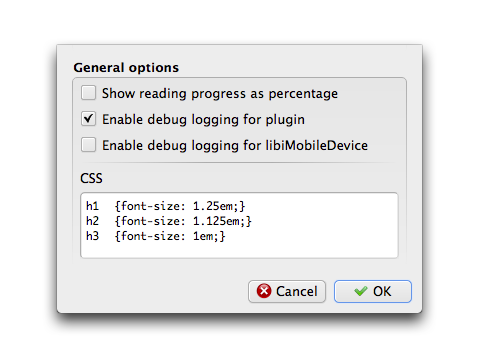
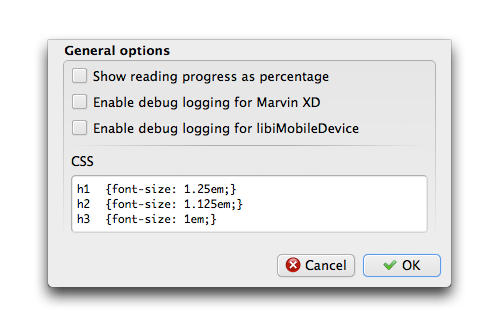
Help updates, initial implementation of filtering in BookStatusDialog.

Changed region(s): [[0.0585, 0.1223, 0.8476, 0.9174], [0.5261, 0.1223, 0.9353, 0.9174]]

diff --git a/help/help.html b/help/help.html
@@ -153,7 +153,7 @@
 		  <li>View annotations, vocabulary words, Deep View content and pinned articles.</li>
 		  <li>Manage collection assignments.</li>
 		  <li>Create, rename and delete collections.</li>
-		  <li>Transfer annotations, reading progress and last read to calibre custom columns.</li>
+		  <li>Transfer annotations, reading progress,  last readand word counts to calibre custom columns.</li>
 	  </ul>
 	</div>
   <hr />
@@ -163,18 +163,18 @@
 <div class="topic">
 <h3><a name="configuration" id="configuration"></a>2. <a href="#toc">Configuration</a></h3>
 <p>Click the down arrow next to the Marvin XD icon, then Customize plugin to display the <strong>Customize Marvin XD</strong> dialog.</p>
-<h4>Custom columns</h4>
+<h4>Custom column assignments</h4>
 <img src="images/custom_columns.png" alt="" class="inline" />
-<p>The <strong>Custom columns</strong> section connects  Marvin XD columns with calibre custom columns. For example, you can select a custom column in calibre for Collections, which then allows you to synchronize collection assignments between calibre and Marvin. You may also specify custom columns for Last read, Annotations and Progress, enabling you to save those Marvin details in calibre.</p>
+<p>The <strong>Custom columns</strong> assignments section connects  Marvin XD columns with calibre custom columns. For example, you can select a custom column in calibre for Collections, which then allows you to synchronize collection assignments between calibre and Marvin. You may  specify custom columns for Annotations, Collections, Last read,   Progress and Word count, enabling you to save those Marvin details in calibre.</p>
 <p>Clicking the combo box presents a list of existing custom columns eligible for use with the associated Marvin details.</p>
 <p>Clicking the Wizard button leads you through the steps to create a new custom column, or renames an existing custom column.</p>
 <p style="clear:left;">&nbsp;</p>
 
 <h4>General options</h4>
 <img src="images/general_options.png" alt="" class="inline" />
-<p>When checked, <strong>Show reading progress as percentage</strong> displays reading progress as a numeric percentage. When unchecked, reading progress is shown as a series of dots.</p>
-<p><strong>Enable debug logging for plugin, </strong><strong>Enable debug logging for libiMobileDevice</strong>. If you are having a problem with the plugin, the developer may ask you to enable one or both of these check boxes, then restart calibre in debug mode from a terminal window to generate a debug log. To start calibre in debug mode, type <tt>calibre-debug -g</tt> in a terminal window.</p>
-<p><strong>CSS</strong>. When viewing Annotations, Articles, Deep View content or Vocabulary, the content is packaged in HTML which can be formatted with CSS. The style directives from this edit control are applied to the retrieved HTML content before it is displayed.</p>
+<p><strong>Show reading progress as percentage: When checked,</strong> displays reading progress as a numeric percentage. When unchecked, reading progress is shown as a series of dots.</p>
+<p><strong>Enable debug logging for Marvin XD, </strong><strong>Enable debug logging for libiMobileDevice</strong>: If you are having a problem with the plugin, the developer may ask you to enable one or both of these check boxes, then restart calibre in debug mode from a terminal window to generate a debug log. To start calibre in debug mode, type <tt>calibre-debug -g</tt> in a terminal window.</p>
+<p><strong>CSS</strong>: When viewing Annotations, Articles, Deep View content or Vocabulary, the content is packaged in HTML which can be formatted with CSS. The style directives from this edit control are applied to the retrieved HTML content before it is displayed.</p>
 <p style="clear:left;">&nbsp;</p>
 
 </div>

diff --git a/book_status.py b/book_status.py
@@ -19,9 +19,12 @@ from xml.sax.saxutils import escape
 from PyQt4 import QtCore
 from PyQt4.Qt import (Qt, QAbstractTableModel,
                       QApplication, QBrush,
-                      QColor, QCursor, QDialogButtonBox, QFont, QIcon,
-                      QItemSelectionModel, QLabel, QMenu, QModelIndex, QPainter, QPixmap,
-                      QProgressDialog, QString, QTableView, QTableWidgetItem, QTimer,
+                      QColor, QCursor, QDialogButtonBox, QFont, QGridLayout,
+                      QHBoxLayout, QIcon,
+                      QItemSelectionModel, QLabel, QLineEdit, QMenu, QModelIndex,
+                      QPainter, QPixmap, QProgressDialog,
+                      QSize, QString,
+                      QTableView, QTableWidgetItem, QTimer, QToolButton,
                       QVariant, QVBoxLayout, QWidget,
                       SIGNAL, pyqtSignal)
 
@@ -755,6 +758,9 @@ class MarkupTableModel(QAbstractTableModel):
         self.arraydata[row][self.parent.PROGRESS_COL] = value
         #self.parent.repaint()
 
+    def get_series(self, row):
+        return self.arraydata[row][self.parent.SERIES_COL]
+
     def get_title(self, row):
         return self.arraydata[row][self.parent.TITLE_COL]
 
@@ -1035,10 +1041,46 @@ class BookStatusDialog(SizePersistedDialog):
 
     def esc(self, *args):
         '''
-        Clear any active selections
+        Clear any active selections, filter
         '''
         self._log_location()
         self._clear_selected_rows()
+        self.filter_clear()
+
+    def filter_clear(self):
+        '''
+        Clear the filter, show all rows
+        '''
+        self._log_location()
+        self.filter_le.clear()
+        total_books = len(self.tm.all_rows())
+        for i in range(total_books):
+            self.tv.showRow(i)
+
+    def filter_table_rows(self, qstr):
+        '''
+        Hide rows not matching filter
+        '''
+        pattern = str(qstr).strip()
+        if pattern == '':
+            self.filter_clear()
+            return
+
+        self._log_location(pattern)
+        total_books = len(self.tm.all_rows())
+        for i in range(total_books):
+            matched = False
+            if re.search(pattern, self.tm.get_title(i).text(), re.IGNORECASE):
+                matched = True
+            elif re.search(pattern, self.tm.get_author(i).text(), re.IGNORECASE):
+                matched = True
+            elif re.search(pattern, self.tm.get_series(i).text(), re.IGNORECASE):
+                matched = True
+
+            if matched:
+                self.tv.showRow(i)
+            else:
+                self.tv.hideRow(i)
 
     def initialize(self, parent):
         self.archived_cover_hashes = JSONConfig('plugins/Marvin_XD_resources/cover_hashes')
@@ -1073,17 +1115,47 @@ class BookStatusDialog(SizePersistedDialog):
         # ~~~~~~~~ Create the dialog ~~~~~~~~
         self.setWindowTitle(u'Marvin Library: %d books' % len(self.installed_books))
         self.setWindowIcon(self.icon)
-        self.l = QVBoxLayout(self)
+        self.l = QGridLayout(self)
         self.setLayout(self.l)
         self.perfect_width = 0
+        current_row = 0
+
+        # ~~~~~~~~ Create the filter ~~~~~~~~
+        self.filter_label = QLabel('')
+        self.filter_label.setMaximumSize(QSize(16,16))
+        self.filter_label.setScaledContents(True)
+        self.filter_label.setPixmap(QPixmap(I('search.png')))
+        self.l.addWidget(self.filter_label, current_row, 0, 1, 1)
+
+        self.filter_le = QLineEdit()
+        #self.filter_le.setFrame(False)
+        self.filter_le.textEdited.connect(self.filter_table_rows)
+        self.filter_le.setPlaceholderText("Filter books by Title, Author or Series")
+        self.filter_le.setToolTip("Filter books by Title, Author or Series")
+        self.l.addWidget(self.filter_le, current_row, 1, 1, 1)
+
+        self.filter_tb = QToolButton()
+        self.filter_tb.setIcon(QIcon(I('clear_left.png')))
+        self.filter_tb.setToolTip("Clear filter")
+        self.filter_tb.clicked.connect(self.filter_clear)
+        self.l.addWidget(self.filter_tb, current_row, 2, 1, 2)
+
+        saved_column_widths = self.opts.prefs.get('marvin_library_column_widths', [1000])
+        spacer_width = sum(saved_column_widths) / 2
+        self.l.setColumnMinimumWidth(3, spacer_width)
+
+        current_row += 1
 
         # ~~~~~~~~ Create the Table ~~~~~~~~
         self.tv = MyTableView(self)
+        self.l.addWidget(self.tv, current_row, 0, 1, 4)
         self.tabledata = self._construct_table_data()
-        self._construct_table_view()
+        self._construct_table_view(current_row)
+        current_row += 1
 
         # ~~~~~~~~ Create the ButtonBox ~~~~~~~~
         self.dialogButtonBox = QDialogButtonBox(QDialogButtonBox.Help)
+        self.l.addWidget(self.dialogButtonBox, current_row, 0, 1, 4)
 
         # Delete button
         if False:
@@ -1171,13 +1243,13 @@ class BookStatusDialog(SizePersistedDialog):
 
         self.dialogButtonBox.clicked.connect(self.dispatch_button_click)
 
-        self.l.addWidget(self.dialogButtonBox)
 
         # ~~~~~~~~ Connect signals ~~~~~~~~
         self.connect(self.tv, SIGNAL("doubleClicked(QModelIndex)"), self.dispatch_double_click)
         self.connect(self.tv.horizontalHeader(), SIGNAL("sectionClicked(int)"), self.capture_sort_column)
 
         self.resize_dialog()
+        self.tv.setFocus()
 
     def launch_collections_scanner(self):
         '''
@@ -2575,12 +2647,10 @@ class BookStatusDialog(SizePersistedDialog):
             tabledata.append(this_book)
         return tabledata
 
-    def _construct_table_view(self):
+    def _construct_table_view(self, current_row):
         '''
         '''
-        #self.tv = QTableView(self)
         self._log_location()
-        self.l.addWidget(self.tv)
         self.tm = MarkupTableModel(self, centered_columns=self.CENTERED_COLUMNS,
                                    right_aligned_columns=self.RIGHT_ALIGNED_COLUMNS)
 

diff --git a/config.py b/config.py
@@ -199,7 +199,7 @@ class ConfigWidget(QWidget):
         self.cfg_runtime_options_qvl.addWidget(self.reading_progress_checkbox)
 
         # ~~~~~~~~ Debug logging checkbox ~~~~~~~~
-        self.debug_plugin_checkbox = QCheckBox('Enable debug logging for plugin')
+        self.debug_plugin_checkbox = QCheckBox('Enable debug logging for Marvin XD')
         self.debug_plugin_checkbox.setObjectName('debug_plugin_checkbox')
         self.debug_plugin_checkbox.setToolTip('Print plugin diagnostic messages to console')
         self.cfg_runtime_options_qvl.addWidget(self.debug_plugin_checkbox)
